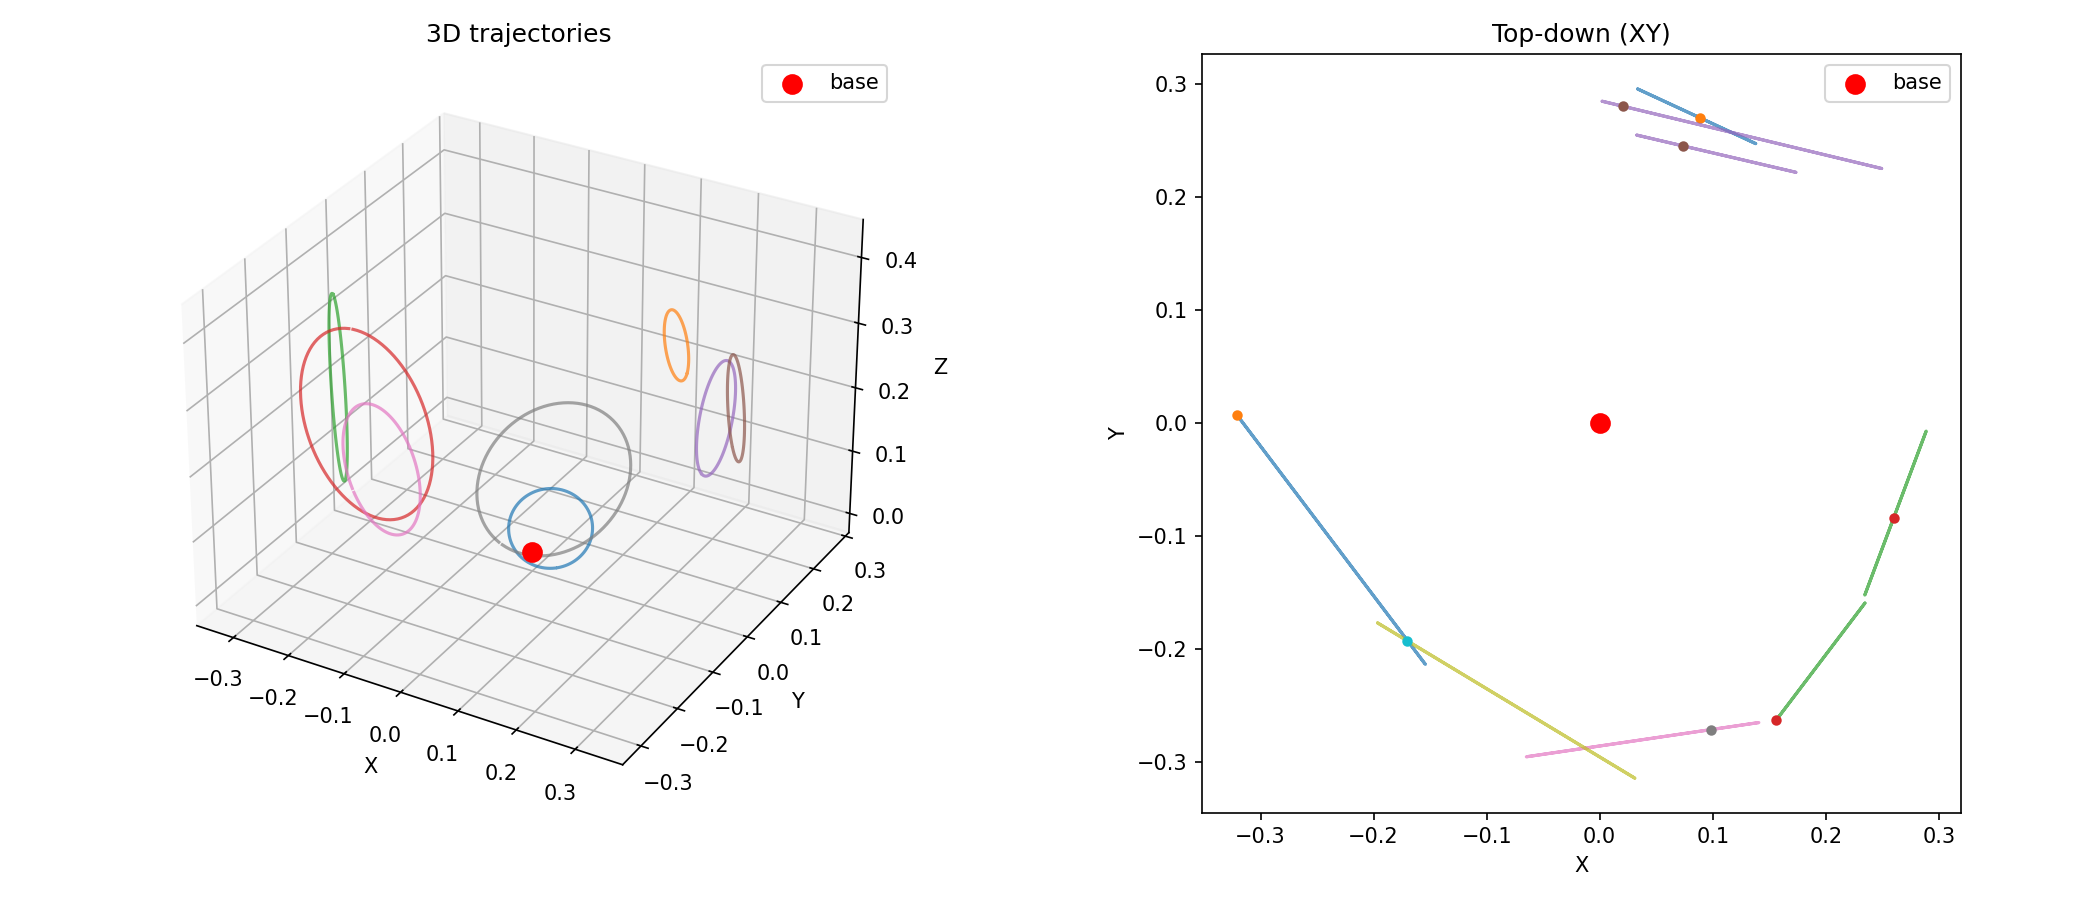
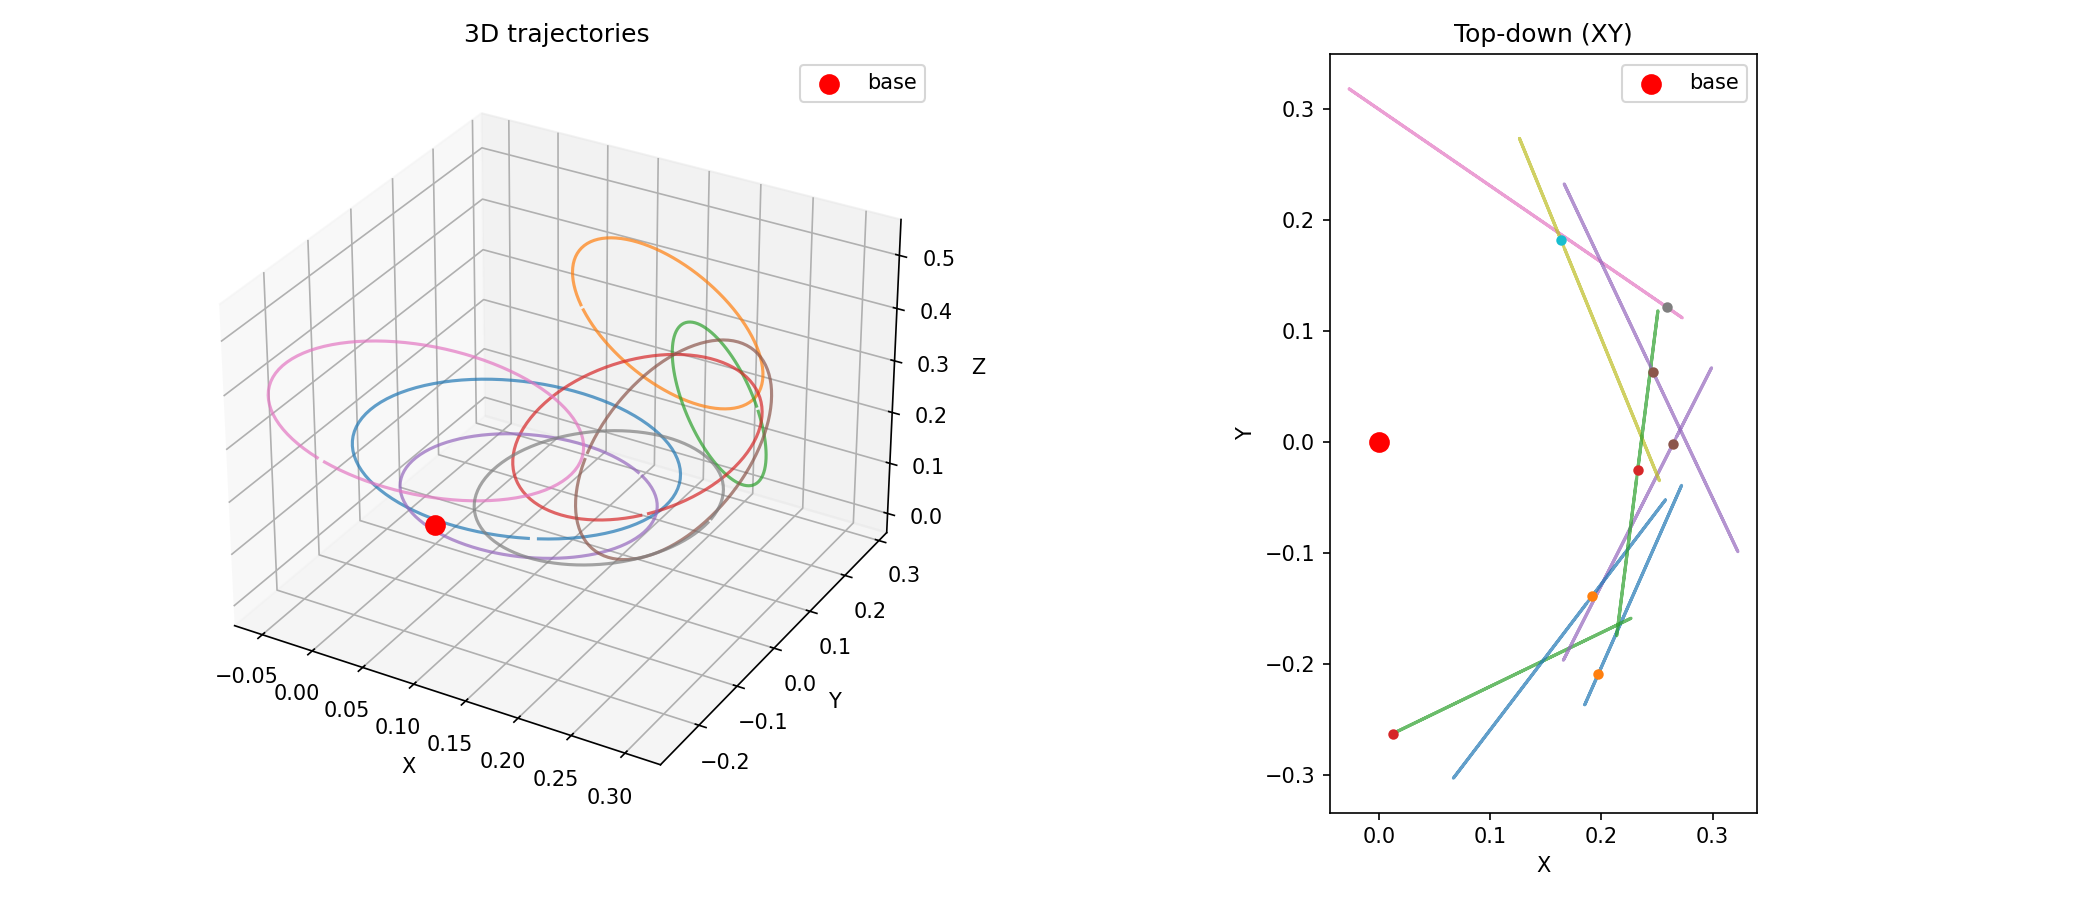
updated approach

diff --git a/hw2_robot_control_mdps/scripts/train.py b/hw2_robot_control_mdps/scripts/train.py
@@ -9,7 +9,7 @@ from env.so100_tracking_env import SO100TrackEnv
 
 def parse_args():
     parser = argparse.ArgumentParser(description="Train PPO on SO100 tracking")
-    parser.add_argument("--num_envs", type=int, default=16,
+    parser.add_argument("--num_envs", type=int, default=1,
                         help="Number of parallel environments; set 1 for single process")
     parser.add_argument("--max_iterations", type=int, default=500,
                         help="Number of PPO update iterations")
@@ -17,6 +17,10 @@ def parse_args():
                         help="Checkpoint every N update iterations")
     parser.add_argument("--device", type=str, default="cpu",
                         help="Torch device (cpu or cuda)")
+    parser.add_argument("--load_run", type=str, default=None,
+                        help="Run ID to resume from (e.g. '1')")
+    parser.add_argument("--checkpoint", type=str, default=None,
+                        help="Checkpoint to load (e.g. '500')")
     return parser.parse_args()
 
 def make_env():
@@ -35,22 +39,20 @@ if __name__ == "__main__":
         envs = SubprocVecEnv([make_env() for _ in range(args.num_envs)], start_method=start_method)
         envs = VecMonitor(envs)
         print(f"Successfully launched {args.num_envs} environments!")
-        model = PPO(
-            "MlpPolicy",
-            envs,
-            device=args.device,
-            verbose=1,
-            tensorboard_log=EXP_DIR,
-            gamma=0.99,
-            ent_coef=0.001,
-            vf_coef=1.0
-        )
+        vec_env = envs
     else:
         # Create a single environment for debug with rendering
-        env = SO100TrackEnv(xml_path=XML_PATH, render_mode="human")
+        vec_env = SO100TrackEnv(xml_path=XML_PATH, render_mode="human")
+
+    if args.load_run is not None and args.checkpoint is not None:
+        policy_path = EXP_DIR / f"so100_tracking_{args.load_run}" / f"model_{args.checkpoint}.zip"
+        print(f"Resuming from {policy_path}...")
+        model = PPO.load(policy_path, env=vec_env, device=args.device,
+                         tensorboard_log=EXP_DIR)
+    else:
         model = PPO(
             "MlpPolicy",
-            env,
+            vec_env,
             device=args.device,
             verbose=1,
             tensorboard_log=EXP_DIR,

diff --git a/hw2_robot_control_mdps/env/so100_tracking_env.py b/hw2_robot_control_mdps/env/so100_tracking_env.py
@@ -12,7 +12,7 @@ class SO100TrackEnv(gym.Env):
     xml_path: Path
     metadata = {"render_modes": ["human", "rgb_array"], "render_fps": 30}
 
-    def __init__(self, xml_path: Path, render_mode=None, real_time=False):
+    def __init__(self, xml_path: Path, render_mode=None, real_time=True):
         self.xml_path = xml_path
         self.model = mujoco.MjModel.from_xml_path(str(self.xml_path))
         self.data = mujoco.MjData(self.model)
@@ -48,15 +48,15 @@ class SO100TrackEnv(gym.Env):
 
         
     # bonus
-    def get_trajectory(self, t=100):
+    def get_trajectory(self, t=100, turns=5):
         # Circular trajectory offset from the robot base, rotatable around z-axis
-        dist = np.random.uniform(0.25, 0.3)       # radial distance from base in XY
+        dist = np.random.uniform(0.22, 0.27)       # radial distance from base in XY
         dy   = np.random.uniform(-0.1, 0.1)       # lateral (tangential) offset, breaks symmetry
         phi = np.random.uniform(-np.pi, np.pi)    # phase offset along the circle
-        psi = np.random.uniform(-np.pi, np.pi)    # rotation of the whole circle around robot z-axis
-        r = np.random.uniform(0.05, 0.15)         # circle radius
+        psi = np.random.uniform(-np.pi * 0.4, np.pi * 0.4)    # rotation of the whole circle around robot z-axis
+        r = np.random.uniform(0.1, 0.2)         # circle radius
         # dz = center height above base; ensure lowest point (cz - r) is at least 0.15m above base
-        dz = r + np.random.uniform(0.15, 0.20)
+        dz = r + np.random.uniform(0.1, 0.15)
 
         base_pos = self.data.body("Base").xpos.copy()
         # center of circle: radial offset (dist) + tangential offset (dy), both rotated by psi
@@ -67,8 +67,8 @@ class SO100TrackEnv(gym.Env):
 
         steps = np.arange(t)
         # circle lies in the plane perpendicular to the XY radial direction
-        local_y = r * np.cos(omega * steps + phi)  # tangential (in XY plane)
-        local_z = r * np.sin(omega * steps + phi)  # vertical
+        local_y = r * np.cos(omega * steps * turns + phi)  # tangential (in XY plane)
+        local_z = r * np.sin(omega * steps * turns + phi)  # vertical
         xs = cx - local_y * np.sin(psi)
         ys = cy + local_y * np.cos(psi)
         zs = cz + local_z

diff --git a/hw2_robot_control_mdps/trajectory_test.py b/hw2_robot_control_mdps/trajectory_test.py
@@ -5,26 +5,30 @@ MAX_EPISODE_LENGTH = 100
 
 
 def get_trajectory(t=100, base_pos=np.zeros(3)):
-    dist = np.random.uniform(0.25, 0.3)
-    dy   = np.random.uniform(-0.1, 0.1)
-    phi  = np.random.uniform(-np.pi, np.pi)
-    psi  = np.random.uniform(-np.pi, np.pi)
-    r    = np.random.uniform(0.05, 0.15)
-    dz   = r + np.random.uniform(0.15, 0.20)
+    
+    # Circular trajectory offset from the robot base, rotatable around z-axis
+    dist = np.random.uniform(0.22, 0.27)       # radial distance from base in XY
+    dy   = np.random.uniform(-0.05, 0.05)       # lateral (tangential) offset, breaks symmetry
+    phi = np.random.uniform(-np.pi, np.pi)    # phase offset along the circle
+    psi = np.random.uniform(-np.pi * 0.4, np.pi * 0.4)    # rotation of the whole circle around robot z-axis
+    r = np.random.uniform(0.1, 0.2)         # circle radius
+    # dz = center height above base; ensure lowest point (cz - r) is at least 0.15m above base
+    dz = r + np.random.uniform(0.1, 0.25)
 
+    # center of circle: radial offset (dist) + tangential offset (dy), both rotated by psi
     cx = base_pos[0] + dist * np.cos(psi) - dy * np.sin(psi)
     cy = base_pos[1] + dist * np.sin(psi) + dy * np.cos(psi)
     cz = base_pos[2] + dz
-    omega = 2 * np.pi / MAX_EPISODE_LENGTH
+    omega = 2 * np.pi / MAX_EPISODE_LENGTH  # one full loop per episode
 
-    steps    = np.arange(t)
-    local_y  = r * np.cos(omega * steps + phi)
-    local_z  = r * np.sin(omega * steps + phi)
+    steps = np.arange(t)
+    # circle lies in the plane perpendicular to the XY radial direction
+    local_y = r * np.cos(omega * steps + phi)  # tangential (in XY plane)
+    local_z = r * np.sin(omega * steps + phi)  # vertical
     xs = cx - local_y * np.sin(psi)
     ys = cy + local_y * np.cos(psi)
     zs = cz + local_z
-    return np.stack([xs, ys, zs], axis=1)
-
+    return np.stack([xs, ys, zs], axis=1)  # shape (t, 3)
 
 N = 8
 fig = plt.figure(figsize=(14, 6))

diff --git a/hw2_robot_control_mdps/scripts/evaluate_trajectory.py b/hw2_robot_control_mdps/scripts/evaluate_trajectory.py
@@ -52,7 +52,7 @@ if __name__ == "__main__":
     play_episode_length_s = 5
     play_episode_length = int(play_episode_length_s / env.ctrl_timestep)
 
-    keypoints = build_keypoints(count=20, width=0.2, x_offset=0.3, z_offset=0.25)
+    keypoints = build_keypoints(count=100, width=0.2, x_offset=0.25, z_offset=0.25)
     env.data.mocap_pos[0] = keypoints[0]
 
     print(f"Loading model from {policy_path}...")
